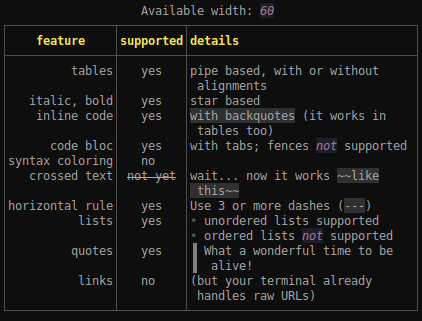
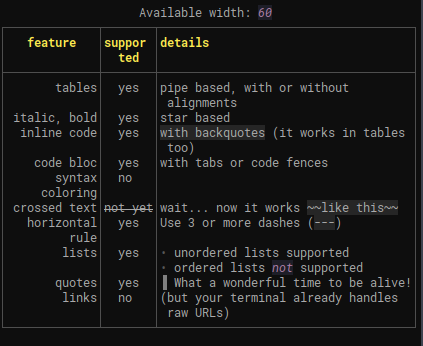
support of code fences

diff --git a/examples/text/main.rs b/examples/text/main.rs
@@ -9,15 +9,17 @@ static MD: &str = r#"
 
 Here's the code to print this markdown block in the terminal:
 
-    let mut skin = MadSkin::default();
-    skin.set_headers_fg(rgb(255, 187, 0));
-    skin.bold.set_fg(Yellow);
-    skin.italic.set_fgbg(Magenta, rgb(30, 30, 40));
-    skin.bullet = StyledChar::from_fg_char(Yellow, '⟡');
-    skin.quote_mark = StyledChar::from_fg_char(Yellow, '▐');
-    skin.bullet = StyledChar::from_fg_char(Yellow, '⟡');
-    skin.quote_mark.set_fg(Yellow);
-    println!("{}", skin.term_text(my_markdown));
+```
+let mut skin = MadSkin::default();
+skin.set_headers_fg(rgb(255, 187, 0));
+skin.bold.set_fg(Yellow);
+skin.italic.set_fgbg(Magenta, rgb(30, 30, 40));
+skin.bullet = StyledChar::from_fg_char(Yellow, '⟡');
+skin.quote_mark = StyledChar::from_fg_char(Yellow, '▐');
+skin.bullet = StyledChar::from_fg_char(Yellow, '⟡');
+skin.quote_mark.set_fg(Yellow);
+println!("{}", skin.term_text(my_markdown));
+```
 
 **Termimad** is built over **Crossterm** and **Minimad**.
 
@@ -28,7 +30,7 @@ Here's the code to print this markdown block in the terminal:
 * *display* static or dynamic *rich* texts
 * *separate* your text building code or resources from its styling
 * *configure* your colors
-*
+
 ## Real use cases
 
 * the help screen of a terminal application

diff --git a/src/events/event_source.rs b/src/events/event_source.rs
@@ -73,7 +73,7 @@ impl EventSource {
                             }
                         }
                     }
-                    last_event = Some(TimedEvent::from(event.clone()));
+                    last_event = Some(TimedEvent::from(event));
                     internal_event_count.fetch_add(1, Ordering::SeqCst);
                     // we send the even to the receiver in the main event loop
                     tx_events.send(event).unwrap();

diff --git a/examples/table/main.rs b/examples/table/main.rs
@@ -8,7 +8,7 @@ static MD_TABLE: &str = r#"
 | tables | yes | pipe based, with or without alignments
 | italic, bold | yes | star based |
 | inline code | yes | `with backquotes` (it works in tables too)
-| code bloc | yes |with tabs; fences *not* supported
+| code bloc | yes |with tabs or code fences
 | syntax coloring | no |
 | crossed text |  ~~not yet~~ | wait... now it works `~~like this~~`
 | horizontal rule | yes | Use 3 or more dashes (`---`)

diff --git a/src/line.rs b/src/line.rs
@@ -27,6 +27,7 @@ impl<'s> FmtLine<'s> {
                 aligns: cells,
             }),
             Line::HorizontalRule => FmtLine::HorizontalRule,
+            Line::CodeFence => FmtLine::HorizontalRule, // we're not supposed to get code fence in clean texts
         }
     }
     pub fn visible_length(&self) -> usize {

diff --git a/README.md b/README.md
@@ -35,7 +35,7 @@ For example this markdown:
 	| tables | yes | pipe based, with or without alignments
 	| italic, bold | yes | star based |
 	| inline code | yes | `with backquotes` (it works in tables too)
-	| code bloc | yes |with tabs; fences *not* supported
+	| code bloc | yes |with tabs or code fences
 	| syntax coloring | no |
 	| crossed text |  ~~not yet~~ | wait... now it works `~~like this~~`
 	| horizontal rule | yes | Use 3 or more dashes (`---`)
